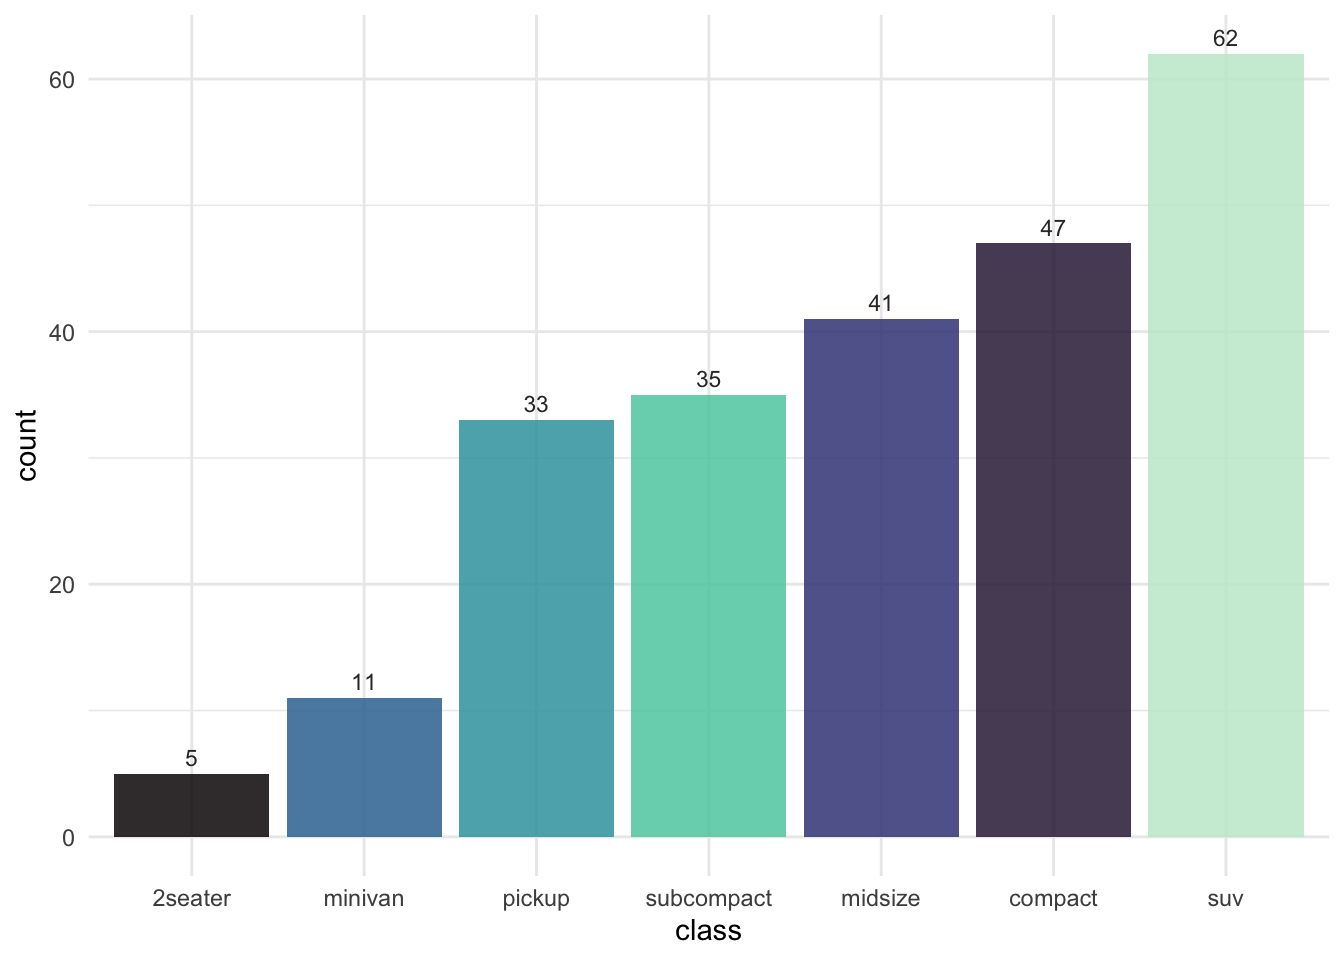
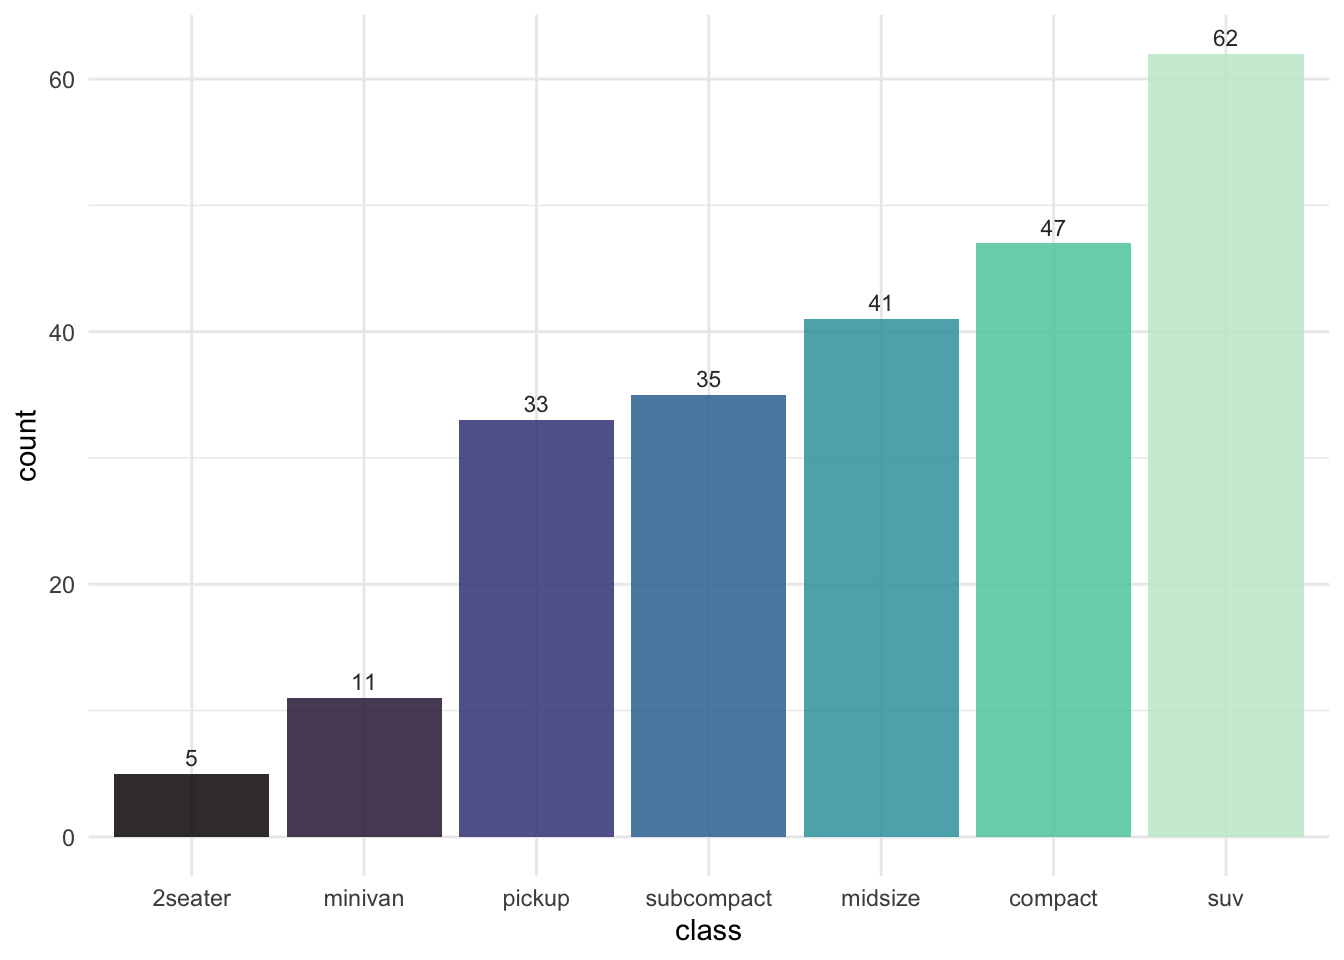
Improved bar plots

Changed region(s): [[0.1875, 0.25, 0.8438, 0.875]]

diff --git a/docs/chapters/basic-plots.html b/docs/chapters/basic-plots.html
@@ -231,7 +231,7 @@
 <div class="cell">
 <details>
 <summary>Code</summary>
-<div class="sourceCode" id="cb2"><pre class="sourceCode r cell-code code-with-copy"><code class="sourceCode r"><span id="cb2-1"><a href="#cb2-1" aria-hidden="true" tabindex="-1"></a><span class="fu">ggplot</span>(mpg, <span class="fu">aes</span>(<span class="at">x =</span> <span class="fu">fct_rev</span>(<span class="fu">fct_infreq</span>(class)), <span class="at">fill =</span> class)) <span class="sc">+</span></span>
+<div class="sourceCode" id="cb2"><pre class="sourceCode r cell-code code-with-copy"><code class="sourceCode r"><span id="cb2-1"><a href="#cb2-1" aria-hidden="true" tabindex="-1"></a><span class="fu">ggplot</span>(mpg, <span class="fu">aes</span>(<span class="at">x =</span> <span class="fu">fct_rev</span>(<span class="fu">fct_infreq</span>(class)), <span class="at">fill =</span> <span class="fu">fct_rev</span>(<span class="fu">fct_infreq</span>(class)))) <span class="sc">+</span></span>
 <span id="cb2-2"><a href="#cb2-2" aria-hidden="true" tabindex="-1"></a>  <span class="fu">geom_bar</span>(<span class="at">alpha =</span> .<span class="dv">85</span>) <span class="sc">+</span></span>
 <span id="cb2-3"><a href="#cb2-3" aria-hidden="true" tabindex="-1"></a>  <span class="fu">geom_text</span>(</span>
 <span id="cb2-4"><a href="#cb2-4" aria-hidden="true" tabindex="-1"></a>    <span class="at">stat =</span> <span class="st">"count"</span>, </span>
@@ -256,7 +256,7 @@
 <summary>Code</summary>
 <div class="sourceCode" id="cb3"><pre class="sourceCode r cell-code code-with-copy"><code class="sourceCode r"><span id="cb3-1"><a href="#cb3-1" aria-hidden="true" tabindex="-1"></a>counts <span class="ot">&lt;-</span> <span class="fu">count</span>(mpg, class)</span>
 <span id="cb3-2"><a href="#cb3-2" aria-hidden="true" tabindex="-1"></a></span>
-<span id="cb3-3"><a href="#cb3-3" aria-hidden="true" tabindex="-1"></a><span class="fu">ggplot</span>(counts, <span class="fu">aes</span>(<span class="at">x =</span> <span class="fu">reorder</span>(class, n), <span class="at">y =</span> n, <span class="at">fill =</span> class)) <span class="sc">+</span></span>
+<span id="cb3-3"><a href="#cb3-3" aria-hidden="true" tabindex="-1"></a><span class="fu">ggplot</span>(counts, <span class="fu">aes</span>(<span class="at">x =</span> <span class="fu">reorder</span>(class, n), <span class="at">y =</span> n, <span class="at">fill =</span> <span class="fu">reorder</span>(class, n))) <span class="sc">+</span></span>
 <span id="cb3-4"><a href="#cb3-4" aria-hidden="true" tabindex="-1"></a>  <span class="fu">geom_col</span>(<span class="at">alpha =</span> .<span class="dv">85</span>) <span class="sc">+</span></span>
 <span id="cb3-5"><a href="#cb3-5" aria-hidden="true" tabindex="-1"></a>  <span class="fu">geom_text</span>(</span>
 <span id="cb3-6"><a href="#cb3-6" aria-hidden="true" tabindex="-1"></a>    <span class="at">mapping =</span> <span class="fu">aes</span>(<span class="at">label =</span> n), </span>
@@ -408,7 +408,7 @@
 <span id="cb11-29"><a href="#cb11-29" aria-hidden="true" tabindex="-1"></a>There are two basic ways to construct a bar plot in <span class="in">`ggplot`</span>. The first way is to use the raw data and have <span class="in">`ggplot`</span> calculate the frequencies.</span>
 <span id="cb11-30"><a href="#cb11-30" aria-hidden="true" tabindex="-1"></a></span>
 <span id="cb11-33"><a href="#cb11-33" aria-hidden="true" tabindex="-1"></a><span class="in">```{r}</span></span>
-<span id="cb11-34"><a href="#cb11-34" aria-hidden="true" tabindex="-1"></a><span class="fu">ggplot</span>(mpg, <span class="fu">aes</span>(<span class="at">x =</span> <span class="fu">fct_rev</span>(<span class="fu">fct_infreq</span>(class)), <span class="at">fill =</span> class)) <span class="sc">+</span></span>
+<span id="cb11-34"><a href="#cb11-34" aria-hidden="true" tabindex="-1"></a><span class="fu">ggplot</span>(mpg, <span class="fu">aes</span>(<span class="at">x =</span> <span class="fu">fct_rev</span>(<span class="fu">fct_infreq</span>(class)), <span class="at">fill =</span> <span class="fu">fct_rev</span>(<span class="fu">fct_infreq</span>(class)))) <span class="sc">+</span></span>
 <span id="cb11-35"><a href="#cb11-35" aria-hidden="true" tabindex="-1"></a>  <span class="fu">geom_bar</span>(<span class="at">alpha =</span> .<span class="dv">85</span>) <span class="sc">+</span></span>
 <span id="cb11-36"><a href="#cb11-36" aria-hidden="true" tabindex="-1"></a>  <span class="fu">geom_text</span>(</span>
 <span id="cb11-37"><a href="#cb11-37" aria-hidden="true" tabindex="-1"></a>    <span class="at">stat =</span> <span class="st">"count"</span>, </span>
@@ -430,7 +430,7 @@
 <span id="cb11-55"><a href="#cb11-55" aria-hidden="true" tabindex="-1"></a><span class="in">```{r}</span></span>
 <span id="cb11-56"><a href="#cb11-56" aria-hidden="true" tabindex="-1"></a>counts <span class="ot">&lt;-</span> <span class="fu">count</span>(mpg, class)</span>
 <span id="cb11-57"><a href="#cb11-57" aria-hidden="true" tabindex="-1"></a></span>
-<span id="cb11-58"><a href="#cb11-58" aria-hidden="true" tabindex="-1"></a><span class="fu">ggplot</span>(counts, <span class="fu">aes</span>(<span class="at">x =</span> <span class="fu">reorder</span>(class, n), <span class="at">y =</span> n, <span class="at">fill =</span> class)) <span class="sc">+</span></span>
+<span id="cb11-58"><a href="#cb11-58" aria-hidden="true" tabindex="-1"></a><span class="fu">ggplot</span>(counts, <span class="fu">aes</span>(<span class="at">x =</span> <span class="fu">reorder</span>(class, n), <span class="at">y =</span> n, <span class="at">fill =</span> <span class="fu">reorder</span>(class, n))) <span class="sc">+</span></span>
 <span id="cb11-59"><a href="#cb11-59" aria-hidden="true" tabindex="-1"></a>  <span class="fu">geom_col</span>(<span class="at">alpha =</span> .<span class="dv">85</span>) <span class="sc">+</span></span>
 <span id="cb11-60"><a href="#cb11-60" aria-hidden="true" tabindex="-1"></a>  <span class="fu">geom_text</span>(</span>
 <span id="cb11-61"><a href="#cb11-61" aria-hidden="true" tabindex="-1"></a>    <span class="at">mapping =</span> <span class="fu">aes</span>(<span class="at">label =</span> n), </span>
